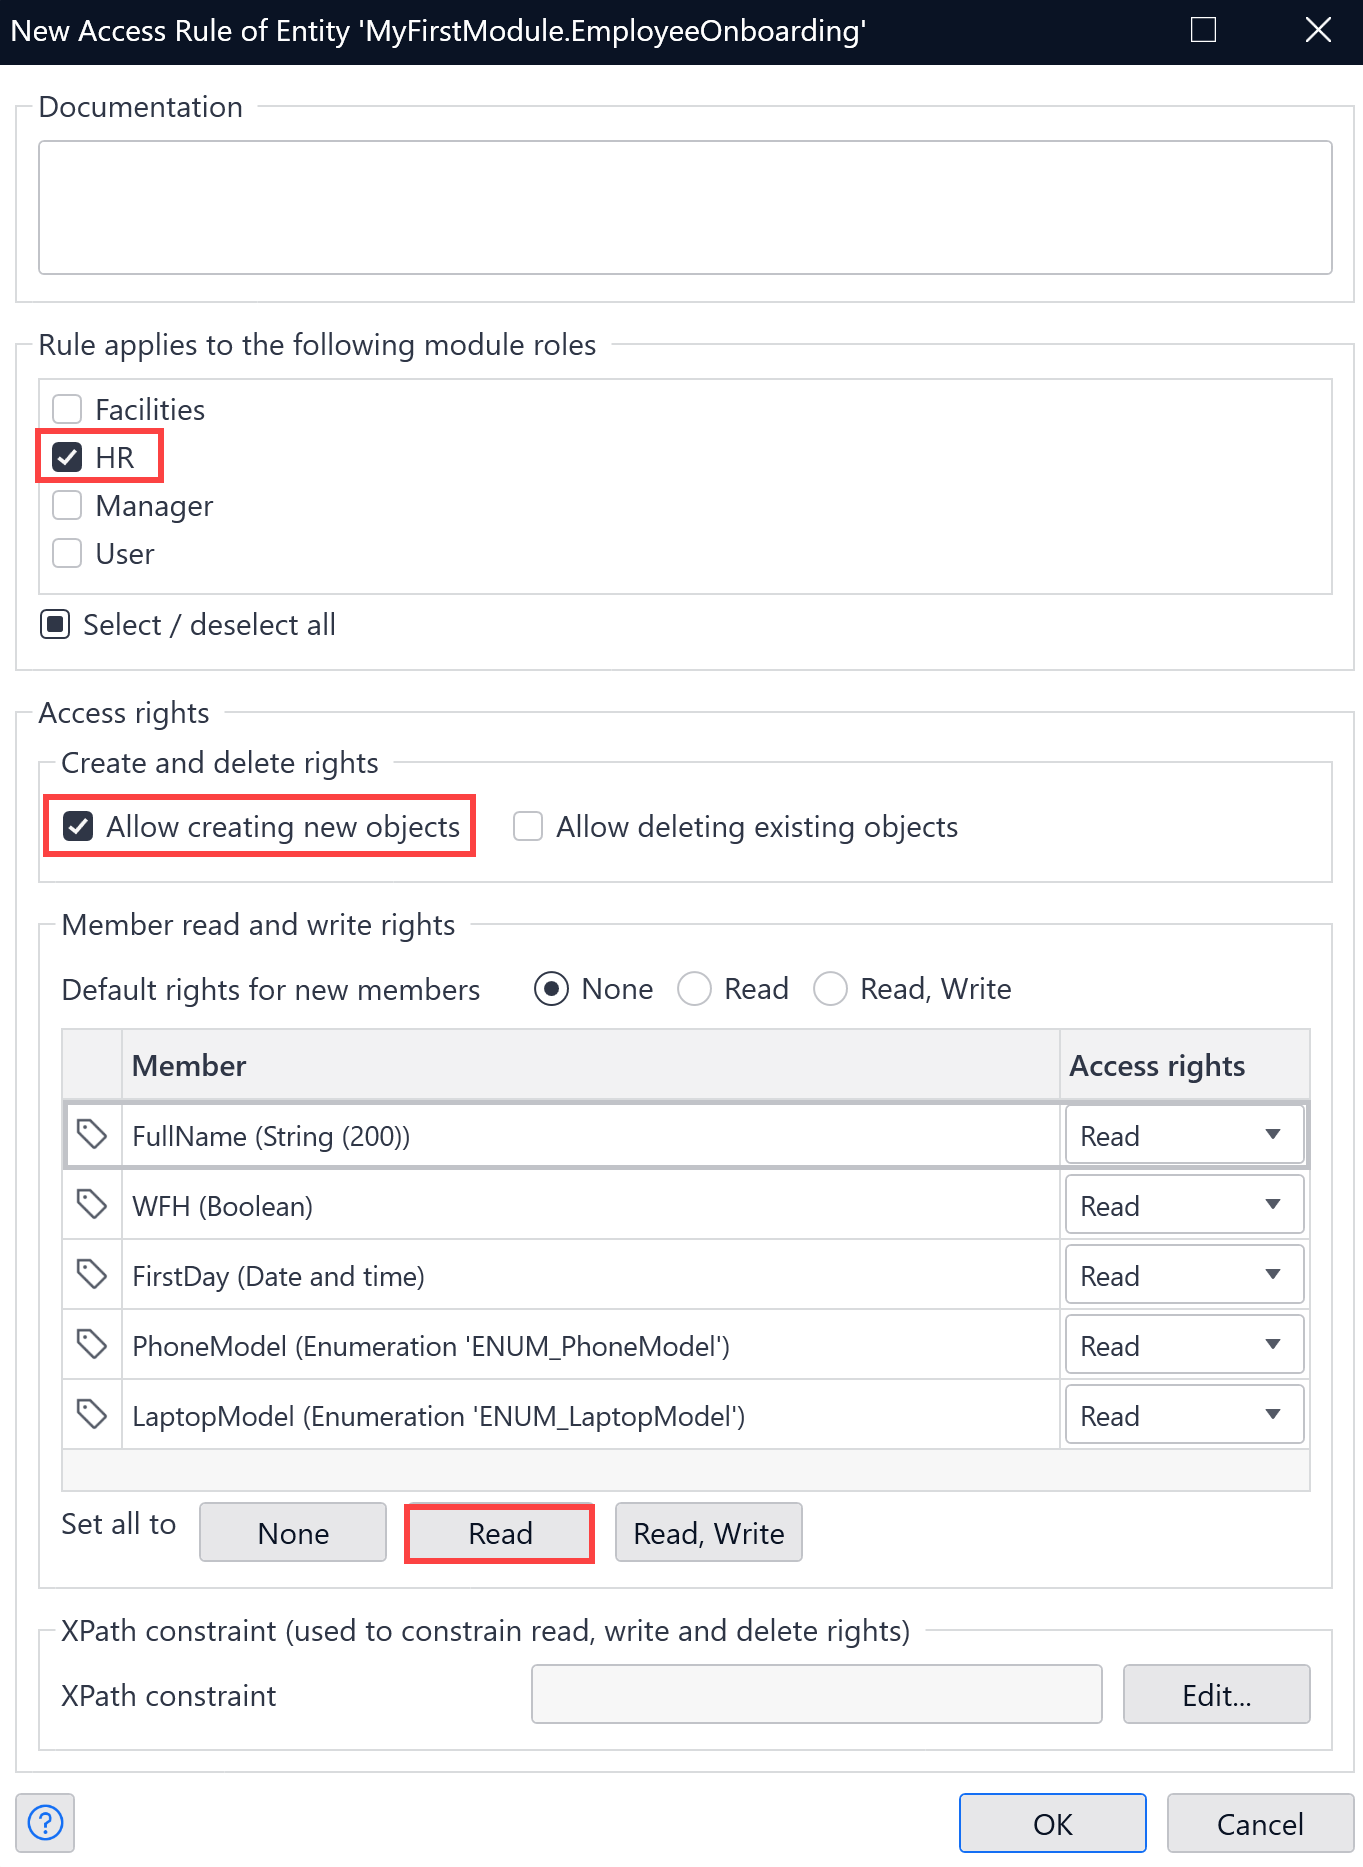
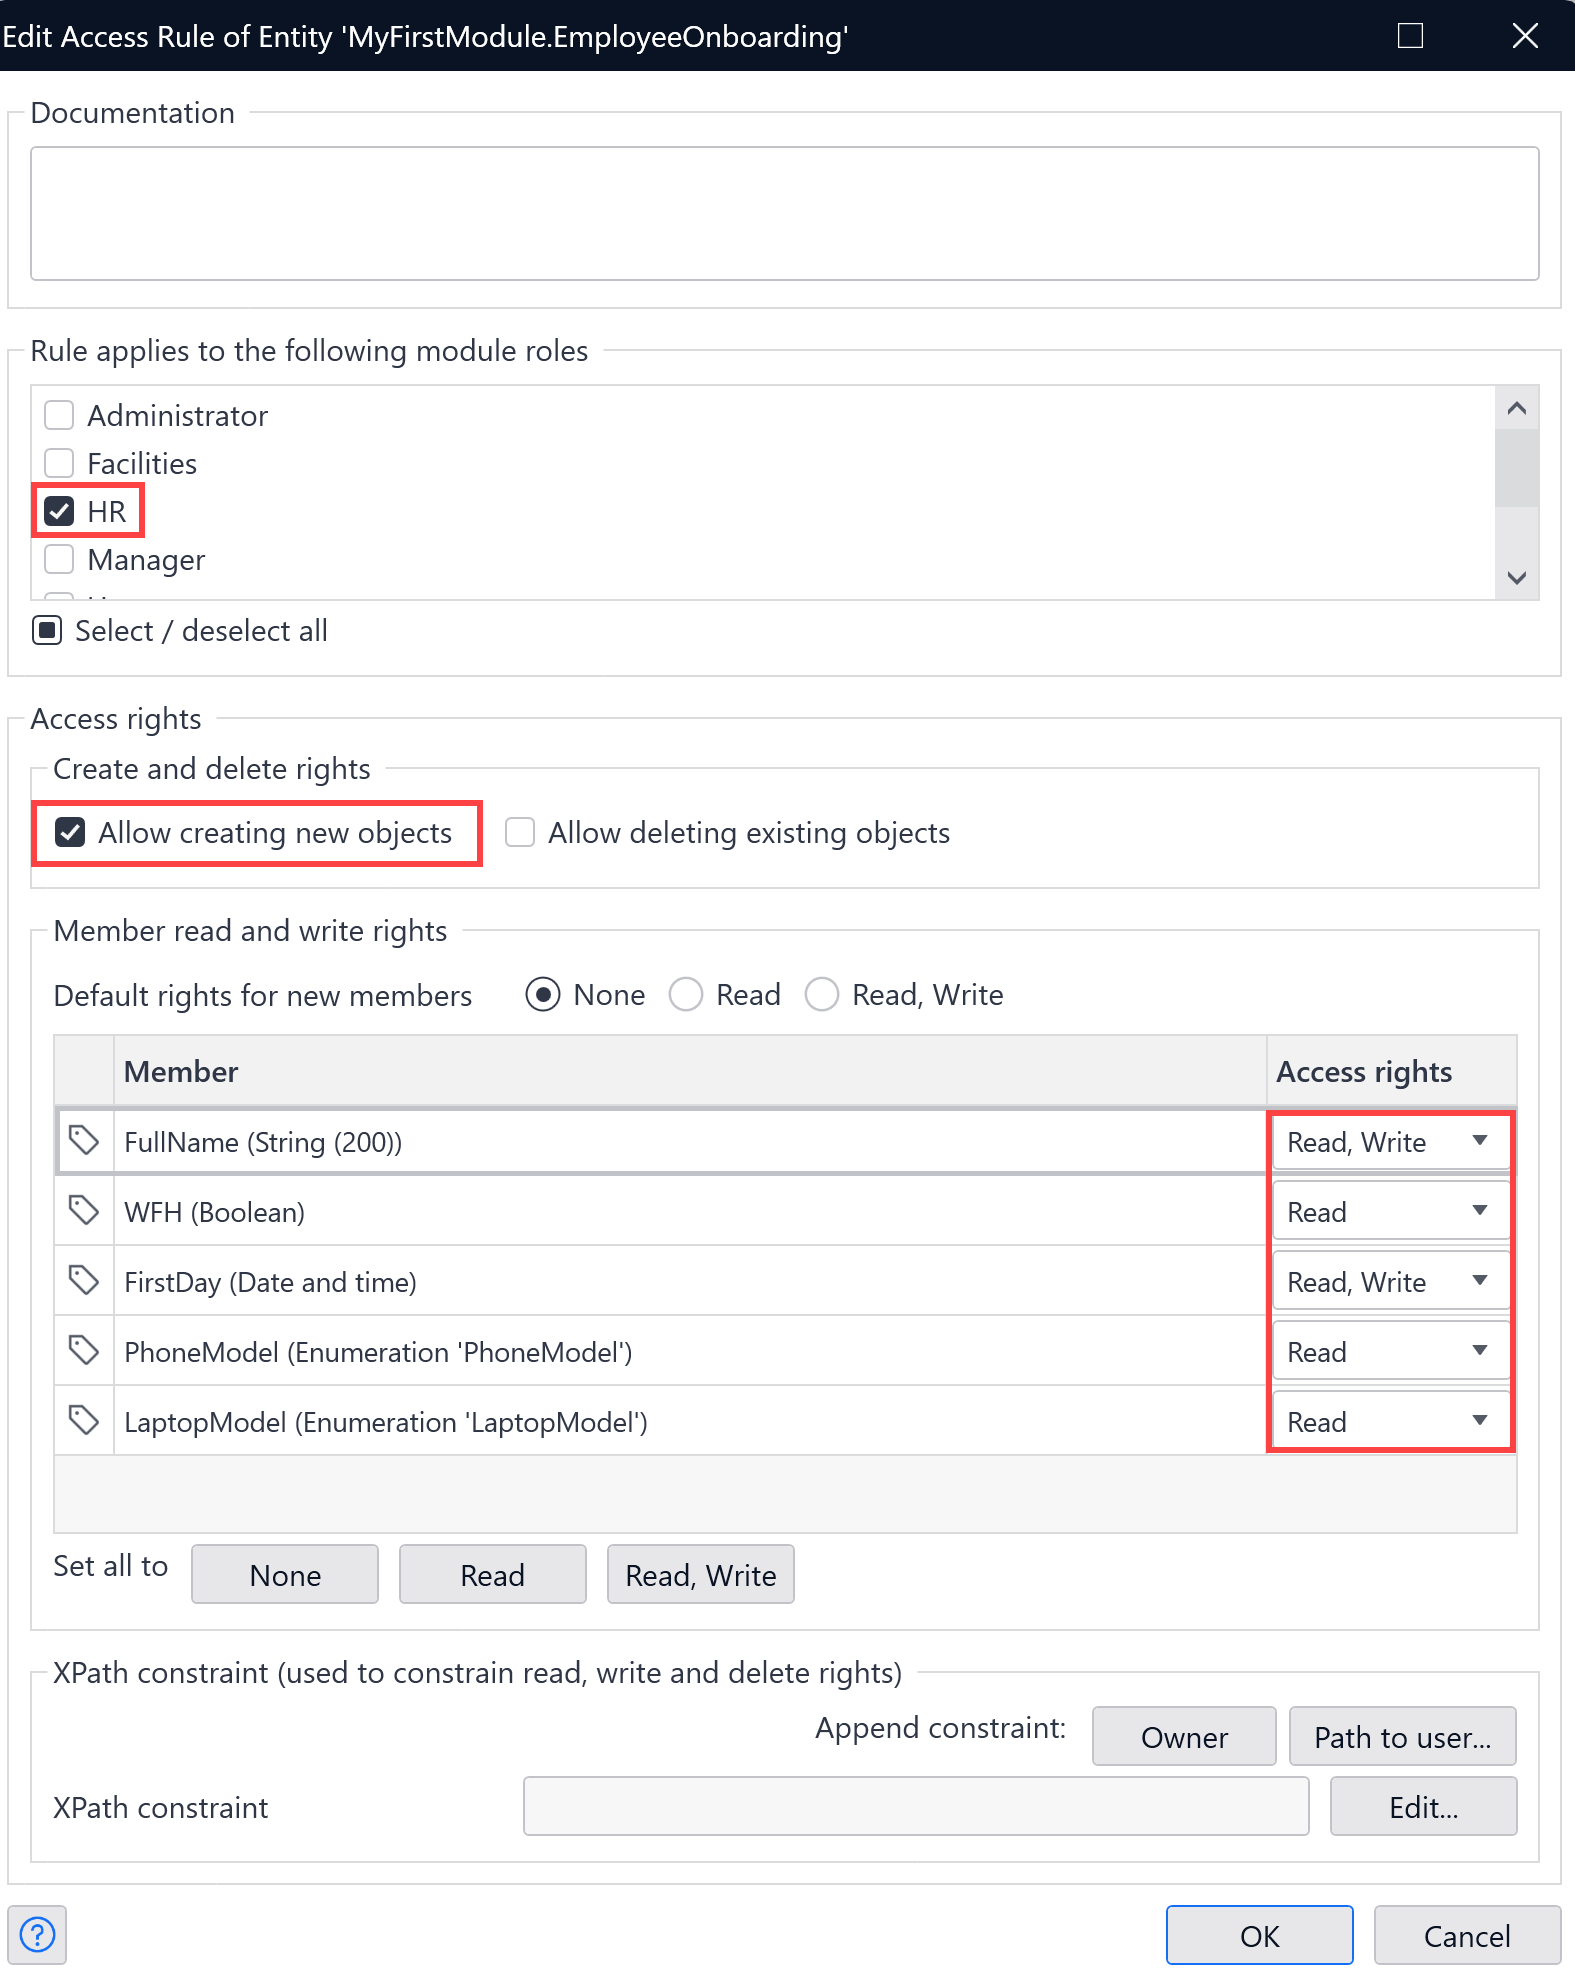
Update onboarding workflow how-to based on GitHub feedback

Changed region(s): [[0.0, 0.0, 1.0, 0.9941], [0.9552, 0.0, 0.9861, 0.0311], [0.8628, 0.0, 0.8936, 0.0311]]

diff --git a/content/en/docs/refguide/modeling/application-logic/workflows/workflow-how-to-configure.md b/content/en/docs/refguide/modeling/application-logic/workflows/workflow-how-to-configure.md
@@ -59,9 +59,14 @@ Before starting this how-to, make sure you have completed the following prerequi
 
         {{< figure src="/attachments/refguide/modeling/application-logic/workflows/workflow-how-to-configure/enumeration-laptop-model.png" width="500" >}}
 
-* Make sure you have an **EmployeesToOnboard** page that contains a list view and has the **EmployeeOnboarding** entity as the data source:
+* Make sure you have an **EmployeesOnboarding_NewEdit** pop-up page that can be used to add a new **EmployeeOnboarding** object. For more information on how to create an entity detail page, see [Create Overview and Detail pages](/howto/front-end/create-your-first-two-overview-and-detail-pages/)
+
+* Make sure you have an **EmployeesToOnboard** page that looks like the following:
 
     {{< figure src="/attachments/refguide/modeling/application-logic/workflows/workflow-how-to-configure/employees-page.png" alt="Employees Page" class="no-border" >}}
+
+    * Contains an **Add** button that is configured to create a new **EmployeeOnboarding** object via the **EmployeeOnboarding_NewEdit** pop-up page
+    * Contains a list view and has the **EmployeeOnboarding** entity as the data source
 
 * Add the following pages to your navigation (pages are part of the Workflow Commons module):
     * TaskInbox
@@ -143,20 +148,21 @@ The next step in setting up security is to configure the entity access otherwise
 4. In the **New Access rule** dialog box, do the following:
 
     1. In the **Rule applies to the following modules** section, select the **HR** role.
-    2. In the **Create and delete rights** section, select **Allow creating new objects**. This allows HR to create a new **EmployeeOnboarding** object when a workflow is started.     
-    3. In the **Member read and write rights** section, click **Set all to Read**. As the HR needs only to start the workflow, but not to change any employee information, **Read** rights are sufficient for all attributes of the entity. 
+    2. In the **Create and delete rights** section, select **Allow creating new objects**. This allows HR to create a new **EmployeeOnboarding** object.
+    3. In the **Member read and write rights** section, set the access rights of **FullName** and **FirstDay** to **Read, Write** as HR needs to fill in the new employee's full name and their first working day.
+    4. Set the access rights of **WFH**, **PhoneModel**, and **LaptopModel** to **Read**.
 
         {{< figure src="/attachments/refguide/modeling/application-logic/workflows/workflow-how-to-configure/access-rules-hr.png" alt="Access Rules for the HR role" width="600" >}}
 
-    4. Click **OK** to save settings.
+    5. Click **OK** to save settings.
 
 5. In the **Access rules** tab, click **New** again to create rule for the Manager role.
 
     1. In the **Rule applies to the following modules** section, select the **Manager** role.
-    2. In the **Member read and write rights** section, click the drop-down list for the **FullName** attribute and select **Read**. 
-    3. As the Manager should be able to select where the new employee is working from and devices that they need, set the **WFH**, **PhoneModel**, and **LaptopModel** to **Read,Write**.
+    2. In the **Member read and write rights** section, set the access right of **FullName** to **Read**. 
+    3. As the Manager should be able to select where the new employee is working from and devices that they need, set the access rights of **WFH**, **PhoneModel**, and **LaptopModel** to **Read, Write**.
 
-    4. Set the **FirstDay** attribute to **Read**.
+    4. Set the access right of **FirstDay** to **Read**.
 
         {{< figure src="/attachments/refguide/modeling/application-logic/workflows/workflow-how-to-configure/access-rules-manager.png" alt="Access Rules for the Manager Role" width="600" >}}
 
@@ -199,9 +205,9 @@ Good job! You have created a workflow and configured the Workflow Context parame
 
 ## Triggering the Workflow from a Page
 
-To start you workflow, you need to trigger it. In this use case, the workflow is started by an HR specialist who should fill in the new hire's name, the first day, and then click the **Start Onboarding** button that will trigger the workflow. 
+To start you workflow, you need to trigger it. In this use case, an HR specialist should first add a new hire by filling in their name and their first day, and then click an **Start Onboarding** button that will trigger the workflow. 
 
-You have an **EmployeesToOnboard** page that contains a list of all employees and has the **EmployeeOnboarding** entity as the data source:
+You have an **EmployeesToOnboard** page that contains an **Add** button that can be used to add a new hire, that is, a new **EmployeeOnboarding** object, and a list view that has the **EmployeeOnboarding** entity as the data source:
 
 {{< figure src="/attachments/refguide/modeling/application-logic/workflows/workflow-how-to-configure/employees-page.png" alt="New Employee Page" class="no-border" >}}
 
@@ -223,7 +229,7 @@ Good job! Now when the HR specialist clicks the button, the workflow will start:
 
 ## Selecting a Device and a Location for the New Hire {#select-device}
 
-The manager of a new employee will get a task to specify devices for the new hire and indicate whether the new hire is working from home or in the office. For this functionality you need to add activities to the workflow. Follow the steps below: 
+The manager of a new employee will get a task to specify devices for the new hire and indicate whether the new hire is working from home or in the office. For this functionality, you need to add activities to the workflow. Follow the steps below: 
 
 1. Navigate to the **Toolbox** pane, find a **User task** activity, and drag it into the workflow editor.
 
@@ -235,7 +241,7 @@ The manager of a new employee will get a task to specify devices for the new hir
 
     {{< figure src="/attachments/refguide/modeling/application-logic/workflows/workflow-how-to-configure/specify-device-and-location-properties.png" alt="SpecifyDevice Properties" width="350" >}} 
 
-5. Now configure the user task to be assigned to the Manager role, as only managers should specify devices for the new employee. Make sure **Target users using** is set to **XPath** and click the ellipsis icon in the **XPath constraint** property.
+5. Now configure the user task to be assigned to the Manager role, as only managers should specify devices and location for the new employee. Make sure **Target users using** is set to **XPath** and click the ellipsis icon in the **XPath constraint** property.
 
 6. In the **Edit XPath Constraint** dialog box, type in the expression: `[System.UserRoles = '[%UserRole_Manager%]']` and click **OK**.
 
@@ -297,12 +303,12 @@ Do the following:
 
 4. Now you need to configure what happens in both scenarios: when the new hire works from the home (true) and when the new hire works from office (false). Open the **Toolbox**, drag a **User task** activity to the **false** path, and do the following:
 
-    1. Name the user task **Prepare_Desk** and set its title to **Facilities: Prepare Desk** referring to steps 2-4 of the [Selecting a Device for the New Hire](#select-device) section:
+    1. Name the user task **Prepare_Desk** and set its title to **Facilities: Prepare Desk** by referring to steps 2-4 of the [Selecting a Device for the New Hire](#select-device) section:
 
         {{< figure src="/attachments/refguide/modeling/application-logic/workflows/workflow-how-to-configure/prepare-desk.png" alt="Prepare Desk" class="no-border" >}}
 
-    2. Configure the task to be assigned to the Facilities role only referring to steps 5 and 6 of the [Selecting a Device for the New Hire](#select-device) section and using the `[System.UserRoles = '[%UserRole_Facilities%]']` expression.
-    3. Set a new page called **PrepareDesk_Workflow** for the **Page** property referring to steps 7-9 of the [Selecting a Device for the New Hire](#select-device) section.
+    2. Configure the task to be assigned to the Facilities role by only referring to steps 5 and 6 of the [Selecting a Device for the New Hire](#select-device) section and using the `[System.UserRoles = '[%UserRole_Facilities%]']` expression.
+    3. Set a new page called **PrepareDesk_Workflow** for the **Page** property by referring to steps 7-9 of the [Selecting a Device for the New Hire](#select-device) section.
 
 5. You need to make sure that only the relevant information is displayed on the **PrepareDesk_Workflow** page. In the App Explorer, double-click the **PrepareDesk_Workflow** page to open it.
 6. By default, all attributes are added to the employee detail form. You need to make sure that the Facilities department will be able to view the fields but not change them. Do the following: 
@@ -376,11 +382,13 @@ To test your workflow, you need to switch between different user roles. Follow t
 
     {{< figure src="/attachments/refguide/modeling/application-logic/workflows/workflow-how-to-configure/user-icon.png" alt="User Icon" width="500" class="no-border" >}}
 
-5. Switch between different demo user roles to test the use case. Do can do the following:
+5. Switch between different demo user roles to test the use case. You can do the following:
 
     1. Start the onboarding process: select the HR demo user that has **EmployeesToOnboard** as the home page, add a new employee, and then click **Start Onboarding**:
 
         {{< figure src="/attachments/refguide/modeling/application-logic/workflows/workflow-how-to-configure/demo_hr.png" alt="EmployeeToOnboard Example" class="no-border" >}}
+
+        {{% alert color="info" %}}Now HR can start the onboarding process for the same employee more than once, which is okay for testing purposes, but it is not ideal in reality. A good solution is to add an OnboardingStatus attribute to the **EmployeeOnboarding** entity and configure the **Start Onboarding** button to trigger a microflow that updates the OnboardingStatus and then starts the workflow. Also, add conditional visibility for the **Start Onboarding** button so that it is not visible anymore after the OnboardingStatus is updated after the HR presses the button. This falls outside of the scope of the current how-to.{{% /alert %}}
 
     2. Test the process: switch users, view inbox for each user, complete tasks, see how new inbox items are created for the user roles you configured at the next task in the process. 
     3. Open the Workflow Admin Center.
